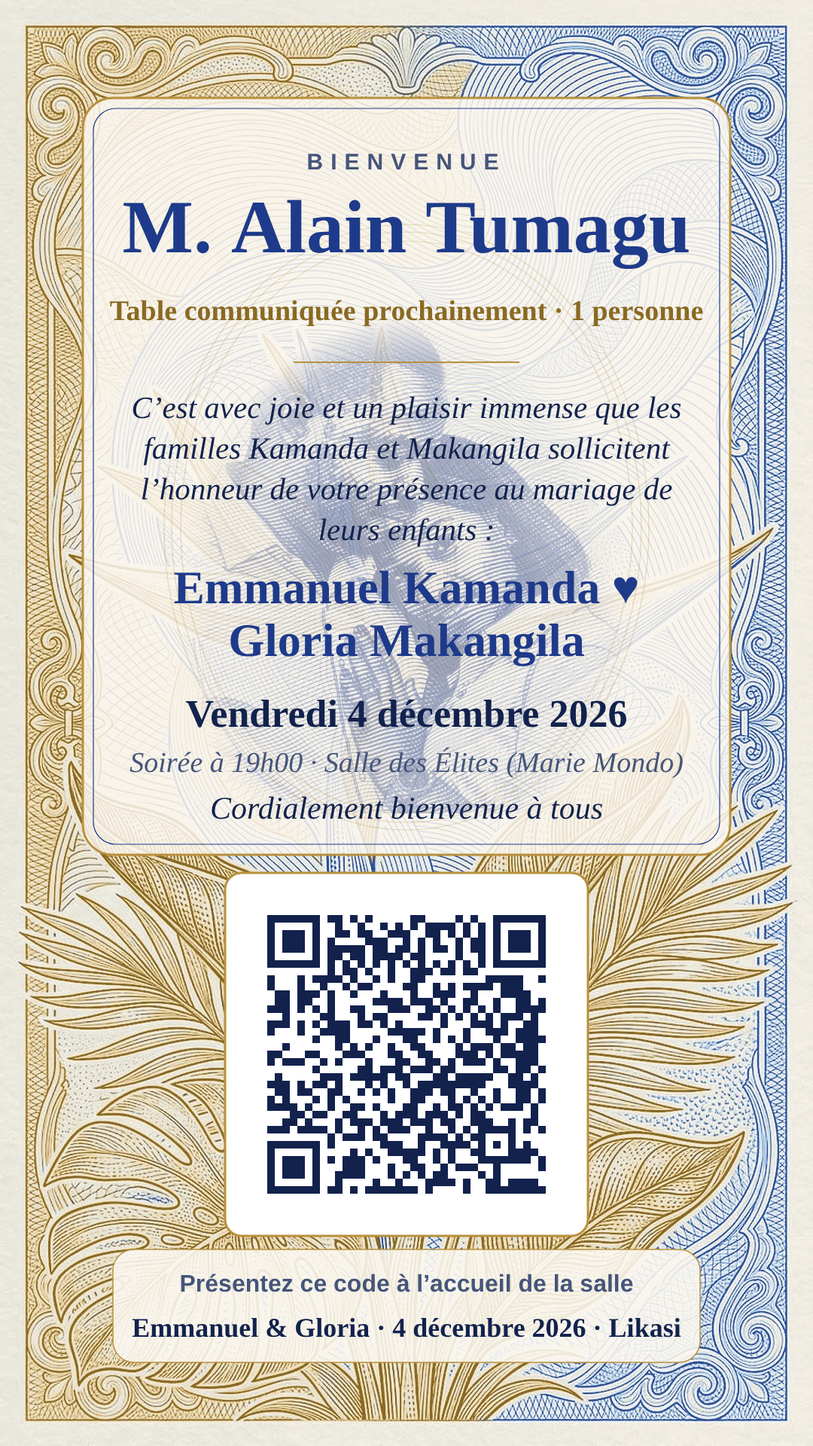
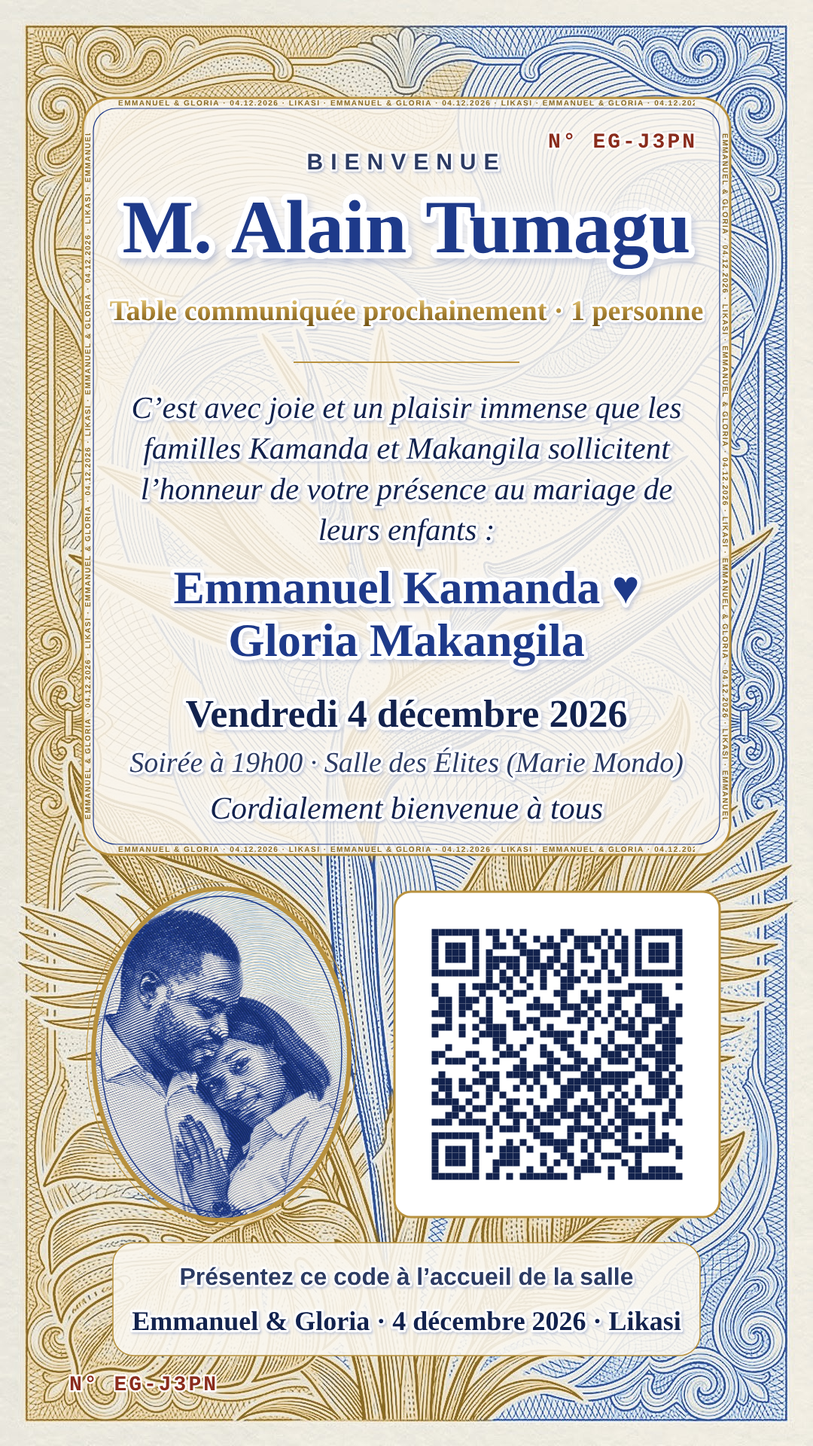
Add files via upload

diff --git a/index.html b/index.html
@@ -999,7 +999,7 @@ function telechargerInvitation() {
     var m = D.mariage, inv = D.invite, th = (m.theme && m.theme.clair) || {};
     // Avec le fond « billet » : bleu clair, bleu roi et or (demande de Jad, 24/11) ; sinon les couleurs du thème
     var C = fond
-      ? { papier: '#F9F3E7', encre: '#12224D', encre2: '#45557A', principal: '#1E3A8A', accent: '#B8913E', accentT: '#8A6A22', gravure: '#1E3A8A' }
+      ? { papier: '#F9F3E7', encre: '#12224D', encre2: '#2C3B63', principal: '#1E3A8A', accent: '#B8913E', accentT: '#8A6A22', gravure: '#1E3A8A' }
       : { papier: '#FBFAF6', encre: couleur(th.encre) || '#14281F', encre2: couleur(th.encre2) || '#3C5246', principal: couleur(th.principal) || '#1F3A2E',
           accent: couleur(th.accent) || '#9A7A2E', accentT: couleur(th.accent_texte) || '#7A5F1F', gravure: couleur(th.principal) || '#1F3A2E' };
     var W = 1080, H = 1920, cv = document.createElement('canvas'); cv.width = W; cv.height = H;
@@ -1009,6 +1009,18 @@ function telechargerInvitation() {
       x.font = police; x.fillStyle = couleurT; x.textAlign = 'center'; x.textBaseline = 'alphabetic';
       var taille = parseInt(police.match(/(\d+)px/)[1], 10);
       while (x.measureText(tx).width > (max || 820) && taille > 20) { taille -= 2; x.font = police.replace(/\d+px/, taille + 'px'); }
+      if (fond) {   // contour blanc sous le texte : bleu lisible sur le fond gravé (demande de Jad, 24/11)
+        x.save(); x.lineJoin = 'round'; x.miterLimit = 2; x.lineWidth = Math.max(5, taille * .16); x.strokeStyle = 'rgba(255,255,255,.95)';
+        // 1) ombre portée légère, bleue, décalée vers le bas-droite sous le contour
+        x.shadowColor = 'rgba(30,58,138,.38)'; x.shadowOffsetX = Math.max(1.5, taille * .03); x.shadowOffsetY = Math.max(2, taille * .045); x.shadowBlur = Math.max(3, taille * .09);
+        x.strokeText(tx, W / 2, y);
+        // 2) contour blanc net par-dessus (halo léger)
+        x.shadowColor = 'rgba(255,255,255,.9)'; x.shadowOffsetX = 0; x.shadowOffsetY = 0; x.shadowBlur = taille * .2; x.strokeText(tx, W / 2, y); x.restore();
+      }
+      if (couleurT === C.accentT) {   // dorure : or clair en haut, or foncé en bas (effet dorure à chaud)
+        var dor = x.createLinearGradient(0, y - taille * .8, 0, y + taille * .15);
+        dor.addColorStop(0, '#EBD28A'); dor.addColorStop(.45, '#B8913E'); dor.addColorStop(1, '#755516'); x.fillStyle = dor;
+      }
       x.fillText(tx, W / 2, y);
     }
     function lignes(tx, police, max) { x.font = police; var mots = String(tx).split(' '), l = [], cur = ''; mots.forEach(function (w) { var essai = cur ? cur + ' ' + w : w; if (x.measureText(essai).width > max && cur) { l.push(cur); cur = w; } else cur = essai; }); if (cur) l.push(cur); return l; }
@@ -1029,52 +1041,30 @@ function telechargerInvitation() {
       x.save(); arrondi(PX, PY, PW, PH, 40); x.fillStyle = 'rgba(250,246,238,.86)'; x.fill();
       x.lineWidth = 3; x.strokeStyle = C.accent; x.stroke(); arrondi(PX + 14, PY + 14, PW - 28, PH - 28, 30); x.lineWidth = 1.2; x.strokeStyle = C.principal; x.stroke(); x.restore();
     }
-    // 3. Effigie du couple gravée en lignes (technique des portraits de billets), dans un ovale estompé
-    if (gravure) {
-      // Effigie gravée à l'avance (style billet, encres terre cuite et bleu) : posée dans un ovale estompé
-      try {
-        var gw2 = 600, gh2 = 760, gcx = W / 2, gcy = 700;
-        var GW = gravure.naturalWidth, GH = gravure.naturalHeight, gsh = GH * .62, gsw = Math.min(GW, gsh * gw2 / gh2), gsx = Math.max(0, Math.min(GW - gsw, GW * .45 - gsw / 2));
-        var go = document.createElement('canvas'); go.width = gw2; go.height = gh2; var gx = go.getContext('2d');
-        gx.drawImage(gravure, gsx, 0, gsw, gsh, 0, 0, gw2, gh2);
-        gx.globalCompositeOperation = 'destination-in';
-        var gg = gx.createRadialGradient(gw2 / 2, gh2 / 2, gw2 * .22, gw2 / 2, gh2 / 2, gw2 * .5);
-        gg.addColorStop(0, 'rgba(0,0,0,1)'); gg.addColorStop(.75, 'rgba(0,0,0,.65)'); gg.addColorStop(1, 'rgba(0,0,0,0)');
-        gx.save(); gx.scale(1, gh2 / gw2); gx.fillStyle = gg; gx.fillRect(0, 0, gw2, gw2); gx.restore();
-        x.save(); x.globalAlpha = .4; x.drawImage(go, gcx - gw2 / 2, gcy - gh2 / 2); x.restore();
-        x.save(); x.strokeStyle = C.accent; x.globalAlpha = .3; x.lineWidth = 1.2;
-        [0, 12, 22].forEach(function (d) { x.beginPath(); x.ellipse(gcx, gcy, gw2 / 2 + d, gh2 / 2 + d, 0, 0, Math.PI * 2); x.stroke(); });
-        x.restore();
-      } catch (e) {}
-    } else if (effigie) {
-      try {
-        var ew = 600, eh = 760, ecx = W / 2, ecy = 700;
-        var IW = effigie.naturalWidth, IH = effigie.naturalHeight, sh = IH * .62, sw = Math.min(IW, sh * ew / eh), sx = Math.max(0, Math.min(IW - sw, IW * .45 - sw / 2));
-        var pas = 4, gw = Math.round(ew / 2), gh = Math.round(eh / pas);              // échantillonnage : une ligne de gravure tous les 4 px
-        var s = document.createElement('canvas'); s.width = gw; s.height = gh; var sx2 = s.getContext('2d');
-        sx2.drawImage(effigie, sx, 0, sw, sh, 0, 0, gw, gh);
-        var px = sx2.getImageData(0, 0, gw, gh).data;
-        var o = document.createElement('canvas'); o.width = ew; o.height = eh; var ox = o.getContext('2d');
-        ox.strokeStyle = C.gravure; ox.lineCap = 'round';
-        for (var j = 0; j < gh; j++) {
-          for (var i = 0; i < gw - 1; i++) {
-            var k = (j * gw + i) * 4, lum = (px[k] * .3 + px[k + 1] * .59 + px[k + 2] * .11) / 255;
-            var sombre = Math.pow(1 - lum, 1.15); if (sombre < .06) continue;
-            var x0 = i * 2, y0 = j * pas + pas / 2 + Math.sin(x0 * .045 + j * .35) * 1.2;   // légère ondulation guillochée
-            ox.lineWidth = .25 + sombre * 3.1;
-            ox.beginPath(); ox.moveTo(x0, y0); ox.lineTo(x0 + 2.2, j * pas + pas / 2 + Math.sin((x0 + 2) * .045 + j * .35) * 1.2); ox.stroke();
-          }
-        }
-        ox.globalCompositeOperation = 'destination-in';
-        var g = ox.createRadialGradient(ew / 2, eh / 2, ew * .2, ew / 2, eh / 2, ew * .5);
-        g.addColorStop(0, 'rgba(0,0,0,1)'); g.addColorStop(.72, 'rgba(0,0,0,.7)'); g.addColorStop(1, 'rgba(0,0,0,0)');
-        ox.save(); ox.scale(1, eh / ew); ox.fillStyle = g; ox.fillRect(0, 0, ew, ew); ox.restore();
-        x.save(); x.globalAlpha = fond ? .30 : .24; x.drawImage(o, ecx - ew / 2, ecy - eh / 2); x.restore();
-        x.save(); x.strokeStyle = C.accent; x.globalAlpha = .3; x.lineWidth = 1.2;
-        [0, 12, 22].forEach(function (d) { x.beginPath(); x.ellipse(ecx, ecy, ew / 2 + d, eh / 2 + d, 0, 0, Math.PI * 2); x.stroke(); });
-        x.restore();
-      } catch (e) {}
+    // 3. Micro-texte sur le cadre du cartouche (comme la ligne de sécurité d'un billet)
+    var MICRO = (prenom(m.marie_1) + ' & ' + prenom(m.marie_2) + ' · ' + (m.date ? m.date.split('-').reverse().join('.') : '') + (m.ville ? ' · ' + m.ville : '') + ' · ').toUpperCase();
+    function micro(x0, y0, longueur, angle) {
+      x.save(); x.translate(x0, y0); x.rotate(angle || 0); x.beginPath(); x.rect(0, -12, longueur, 16); x.clip();
+      x.font = '700 10px ' + SANS; x.fillStyle = C.accentT; x.textAlign = 'left'; x.textBaseline = 'middle';
+      try { x.letterSpacing = '1.5px'; } catch (e) {}
+      var bout = MICRO, w = x.measureText(bout).width || 100, k = 0; while (k < longueur) { x.fillText(bout, k, 0); k += w; }
+      try { x.letterSpacing = '0px'; } catch (e) {} x.restore();
     }
+    var cadre = fond ? { x: PX + 7, y: PY + 7, w: PW - 14, h: PH - 14, r: 34 } : { x: 52, y: 52, w: W - 104, h: H - 104, r: 0 };
+    micro(cadre.x + cadre.r + 6, cadre.y, cadre.w - 2 * cadre.r - 12, 0);
+    micro(cadre.x + cadre.r + 6, cadre.y + cadre.h, cadre.w - 2 * cadre.r - 12, 0);
+    micro(cadre.x, cadre.y + cadre.h - cadre.r - 6, cadre.h - 2 * cadre.r - 12, -Math.PI / 2);
+    micro(cadre.x + cadre.w, cadre.y + cadre.r + 6, cadre.h - 2 * cadre.r - 12, Math.PI / 2);
+    // Numéro de série de l'invitation (comme sur un billet) : initiales des mariés + code de l'invité
+    var serie = 'N° ' + (prenom(m.marie_1).charAt(0) + prenom(m.marie_2).charAt(0)).toUpperCase() + '-' + (DEMO ? 'DEMO' : String(CODE || '').split('-').pop().toUpperCase());
+    function numero(nx, ny, aligne) {
+      x.save(); x.font = '700 28px "Courier New", Courier, monospace'; x.textAlign = aligne; x.textBaseline = 'alphabetic';
+      try { x.letterSpacing = '3px'; } catch (e) {}
+      x.lineJoin = 'round'; x.lineWidth = 5; x.strokeStyle = 'rgba(255,255,255,.95)'; x.strokeText(serie, nx, ny);
+      x.fillStyle = '#8A2C1C'; x.fillText(serie, nx, ny); x.restore();
+    }
+    var bord = fond ? { d: PX + PW - 44, h: PY + 66 } : { d: W - 100, h: 120 };
+    numero(bord.d, bord.h, 'right');   // le second numéro est posé en bas à gauche, après la rangée du bas
 
     // 4. Textes : l'invité d'abord
     try { x.letterSpacing = '10px'; } catch (e) {}
@@ -1093,19 +1083,38 @@ function telechargerInvitation() {
     if (salle) { texte((salle.titre || t('type.' + salle.type)) + (salle.debut ? ' à ' + fmtHeureCourte(salle.debut) : '') + (salle.lieu ? ' · ' + salle.lieu : ''), y + 60, 'italic 500 38px ' + SERIF, C.encre2, 800); y += 60; }
     texte(t('ci_cordial').replace(/\s*✨\s*$/, ''), y + 62, 'italic 500 42px ' + SERIF, C.encre); y += 62;
 
-    // 5. QR code sur carré blanc (lisible au scanner), légende et signature
-    var Q = fond ? 430 : 460, qx = (W - Q) / 2, qy = Math.max(y + (fond ? 95 : 60), fond ? PY + PH + 50 : 1040);
-    if (qy + Q + 200 > H - 80) qy = H - 80 - 200 - Q;
-    if (fond) { x.save(); arrondi(qx - 26, qy - 26, Q + 52, Q + 52, 22); x.fillStyle = '#FFFFFF'; x.fill(); x.lineWidth = 3; x.strokeStyle = C.accent; x.stroke(); x.restore(); }
-    else { x.fillStyle = '#FFFFFF'; x.fillRect(qx, qy, Q, Q); }
-    var mat = window.QR.matrice(inv.qr), n = mat.length, cell = Math.floor((Q - 40) / n), ox2 = qx + (Q - cell * n) / 2, oy2 = qy + (Q - cell * n) / 2;
+    // 5. Rangée du bas : médaillon de l'effigie (net, dans un ovale doré) et QR code sur carré blanc
+    var source = gravure || effigie, MW = 340, MH = 440, RH = MH, Q = source ? 380 : (fond ? 430 : 460);
+    var rangee = fond ? PY + PH + 45 : Math.max(y + 60, 1040);
+    if (rangee + RH + 30 + 150 > H - 70) rangee = H - 70 - 150 - 30 - RH;
+    var blocW = source ? MW + 60 + Q + 52 : Q + 52, gauche = (W - blocW) / 2;
+    var qx = source ? gauche + MW + 60 + 26 : (W - Q) / 2, qy = rangee + (RH - Q) / 2;
+    if (source) {
+      try {
+        var mcx = gauche + MW / 2, mcy = rangee + MH / 2;
+        var SW = source.naturalWidth, SH = source.naturalHeight, csh = SH * .58, csw = Math.min(SW, csh * MW / MH), csx = Math.max(0, Math.min(SW - csw, SW * .46 - csw / 2));
+        x.save(); x.beginPath(); x.ellipse(mcx, mcy, MW / 2, MH / 2, 0, 0, Math.PI * 2); x.fillStyle = '#FFFFFF'; x.fill(); x.clip();
+        if (!gravure) { try { x.filter = 'grayscale(1) contrast(1.2)'; } catch (e) {} }
+        x.drawImage(source, csx, SH * .02, csw, csh, gauche, rangee, MW, MH);
+        try { x.filter = 'none'; } catch (e) {}
+        if (!gravure) { x.globalCompositeOperation = 'color'; x.fillStyle = C.principal; x.fillRect(gauche, rangee, MW, MH); }
+        x.restore();
+        x.save(); x.lineWidth = 6; x.strokeStyle = C.accent; x.beginPath(); x.ellipse(mcx, mcy, MW / 2, MH / 2, 0, 0, Math.PI * 2); x.stroke();
+        x.lineWidth = 1.5; x.strokeStyle = C.principal; x.beginPath(); x.ellipse(mcx, mcy, MW / 2 - 10, MH / 2 - 10, 0, 0, Math.PI * 2); x.stroke();
+        x.lineWidth = 1.2; x.strokeStyle = C.accent; x.beginPath(); x.ellipse(mcx, mcy, MW / 2 + 9, MH / 2 + 9, 0, 0, Math.PI * 2); x.stroke(); x.restore();
+      } catch (e) {}
+    }
+    x.save(); arrondi(qx - 26, qy - 26, Q + 52, Q + 52, 22); x.fillStyle = '#FFFFFF'; x.fill(); x.lineWidth = 3; x.strokeStyle = C.accent; x.stroke(); x.restore();
+    var mat = window.QR.matrice(inv.qr), n = mat.length, cell = Math.floor((Q - 20) / n), ox2 = qx + (Q - cell * n) / 2, oy2 = qy + (Q - cell * n) / 2;
     x.fillStyle = fond ? '#12224D' : couleurQR();
     for (var r = 0; r < n; r++) for (var c = 0; c < n; c++) if (mat[r][c]) x.fillRect(ox2 + c * cell, oy2 + r * cell, cell, cell);
+    var basY = rangee + RH + 30;
     var dCourte = m.date ? new Intl.DateTimeFormat(LANGUE === 'fr' ? 'fr-FR' : LANGUE, { timeZone: 'UTC', day: 'numeric', month: 'long', year: 'numeric' }).format(new Date(m.date + 'T12:00:00Z')) : '';
     var bas1 = t('image_presenter_salle'), bas2 = prenom(m.marie_1) + ' & ' + prenom(m.marie_2) + (dCourte ? ' · ' + dCourte : '') + (m.ville ? ' · ' + m.ville : '');
-    if (fond) { x.save(); arrondi(150, qy + Q + 44, W - 300, 150, 28); x.fillStyle = 'rgba(250,246,238,.9)'; x.fill(); x.lineWidth = 1.5; x.strokeStyle = C.accent; x.stroke(); x.restore(); }
-    texte(bas1, qy + Q + 100, '600 32px ' + SANS, C.encre2, 740);
-    texte(bas2, qy + Q + 160, '600 42px ' + SERIF, C.encre, 740);
+    if (fond) { x.save(); arrondi(150, basY, W - 300, 150, 28); x.fillStyle = 'rgba(250,246,238,.9)'; x.fill(); x.lineWidth = 1.5; x.strokeStyle = C.accent; x.stroke(); x.restore(); }
+    texte(bas1, basY + 56, '600 32px ' + SANS, C.encre2, 740);
+    texte(bas2, basY + 116, '600 42px ' + SERIF, C.encre, 740);
+    numero(fond ? 92 : 100, Math.min(H - 48, basY + 196), 'left');
 
     if (DEMO) { x.save(); x.translate(W / 2, H / 2); x.rotate(-0.45); x.font = '700 120px ' + SANS; x.fillStyle = 'rgba(154,122,46,.22)'; x.textAlign = 'center'; x.fillText(t('demo_filigrane'), 0, 0); x.restore(); }
     cv.toBlob(function (blob) {
